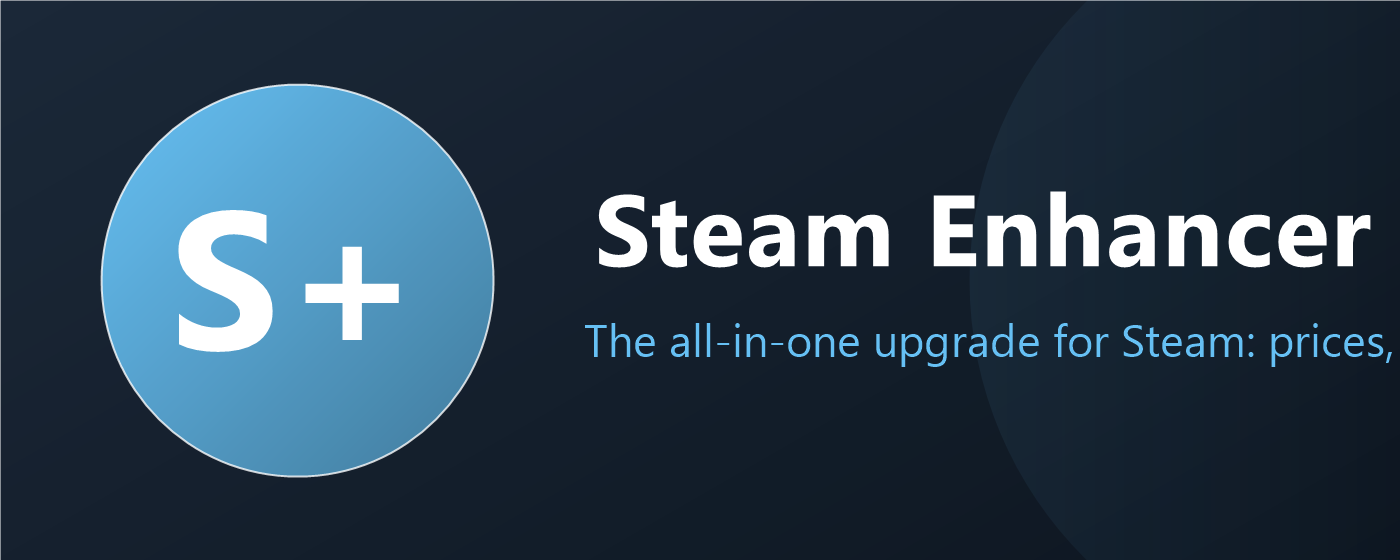
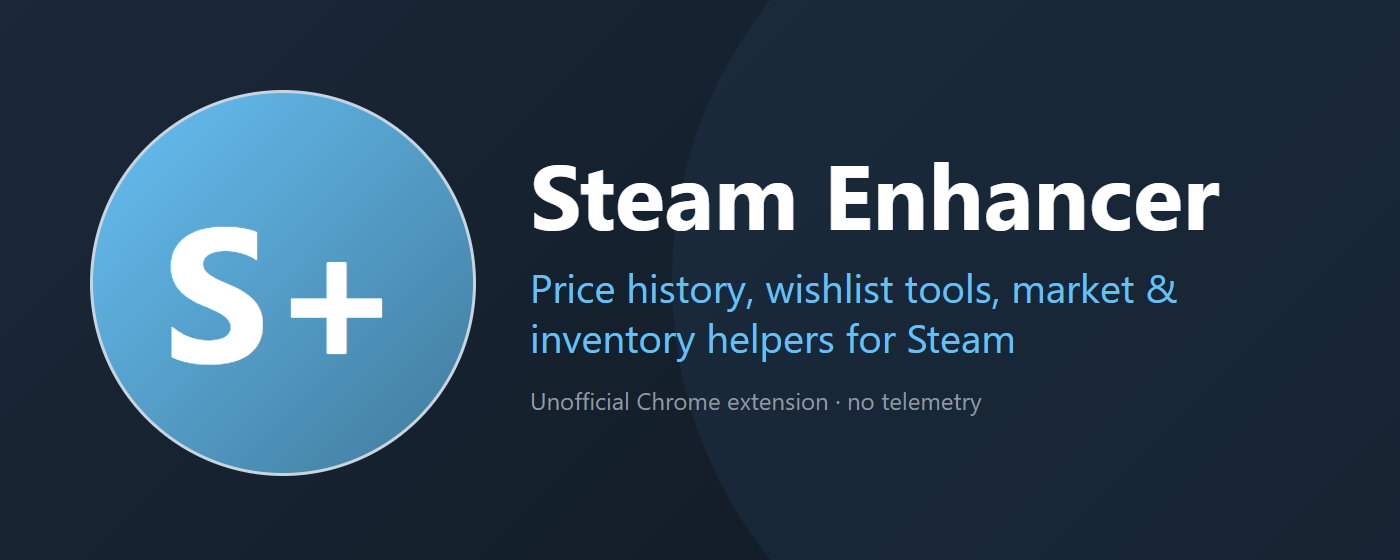
Real store screenshots, redrawn promo tiles, popup defaults fix
- Replace the placeholder mock-up screenshots with real captures of the
  extension on live Steam pages (store page, search, options, popup)
- Redraw the small and marquee promo tiles (text was cropped)
- Fix the popup showing default-on toggles as unchecked on a fresh install

diff --git a/src/popup/popup.js b/src/popup/popup.js
@@ -1,8 +1,14 @@
 const STORAGE_KEY = 'se_settings_v1';
+// Defaults for the toggles shown in the popup — keep in sync with DEFAULTS in options.js / storage.js.
+const POPUP_DEFAULTS = {
+  showLowestPrice: true, highlightOwned: true, highlightWishlist: true,
+  hideIgnoredInSearch: true, showProtonDB: true, showRegionalPricing: false,
+  notifyWishlistDeals: false
+};
 
 async function load() {
   const data = await new Promise((r) => chrome.storage.sync.get([STORAGE_KEY], r));
-  const cfg = data[STORAGE_KEY] || {};
+  const cfg = { ...POPUP_DEFAULTS, ...(data[STORAGE_KEY] || {}) };
   document.querySelectorAll('input[data-setting]').forEach((el) => {
     el.checked = !!cfg[el.dataset.setting];
   });

diff --git a/store-assets/README.md b/store-assets/README.md
@@ -8,8 +8,13 @@ Everything needed to fill in the Chrome Web Store Developer Dashboard.
 |---|---|---|
 | `../icons/icon128.png` | 128×128 PNG, store icon | ✅ |
 | `promo-small-440x280.png` | 440×280 PNG, small promo tile | ✅ |
-| `promo-marquee-1400x560.png` | 1400×560 PNG, marquee tile (optional) | ⚠ tagline text is cut off at the right edge |
-| `screenshot-1..5-*.png` | 1280×800 PNG | ⚠ text mock-ups, not real screenshots of the extension. Replace with real captures from Steam pages before submitting. |
+| `promo-marquee-1400x560.png` | 1400×560 PNG, marquee tile (optional) | ✅ |
+| `screenshot-1-store-page.png` | 1280×800 PNG, real capture: store page panel | ✅ |
+| `screenshot-2-search.png` | 1280×800 PNG, real capture: search / specials | ✅ |
+| `screenshot-3-options.png` | 1280×800 PNG, real capture: options page | ✅ |
+| `screenshot-4-popup.png` | 1280×800 PNG, real capture: toolbar popup (enlarged) | ✅ |
+
+The screenshots were captured from the real extension on live Steam pages while signed out and without an IsThereAnyDeal key, so the price panels show the "add a free key" notice. Market, inventory, wishlist and trade-offer screens need a signed-in session and are not included; add them if you want a fuller gallery.
 
 At least 1 screenshot is required, up to 5 allowed.
 

diff --git a/CHANGELOG.md b/CHANGELOG.md
@@ -13,6 +13,10 @@ All notable changes to Steam Enhancer are documented here. Versions follow the
 - Rewrote the Chrome Web Store listing text (`store-assets/description.md`) to
   cover everything through 1.4.0, and added translated listings for Hebrew,
   German, Portuguese (Brazil) and Russian in `store-assets/listing/`.
+- Fixed the toolbar popup showing every default-on toggle as unchecked on a
+  fresh install (it read stored settings without merging in the defaults).
+- Replaced the placeholder store screenshots with real captures and redrew the
+  promo tiles, whose text was cropped.
 
 ## [1.4.0] — ITAD now requires a key, i18n everywhere, batched lookups
 
